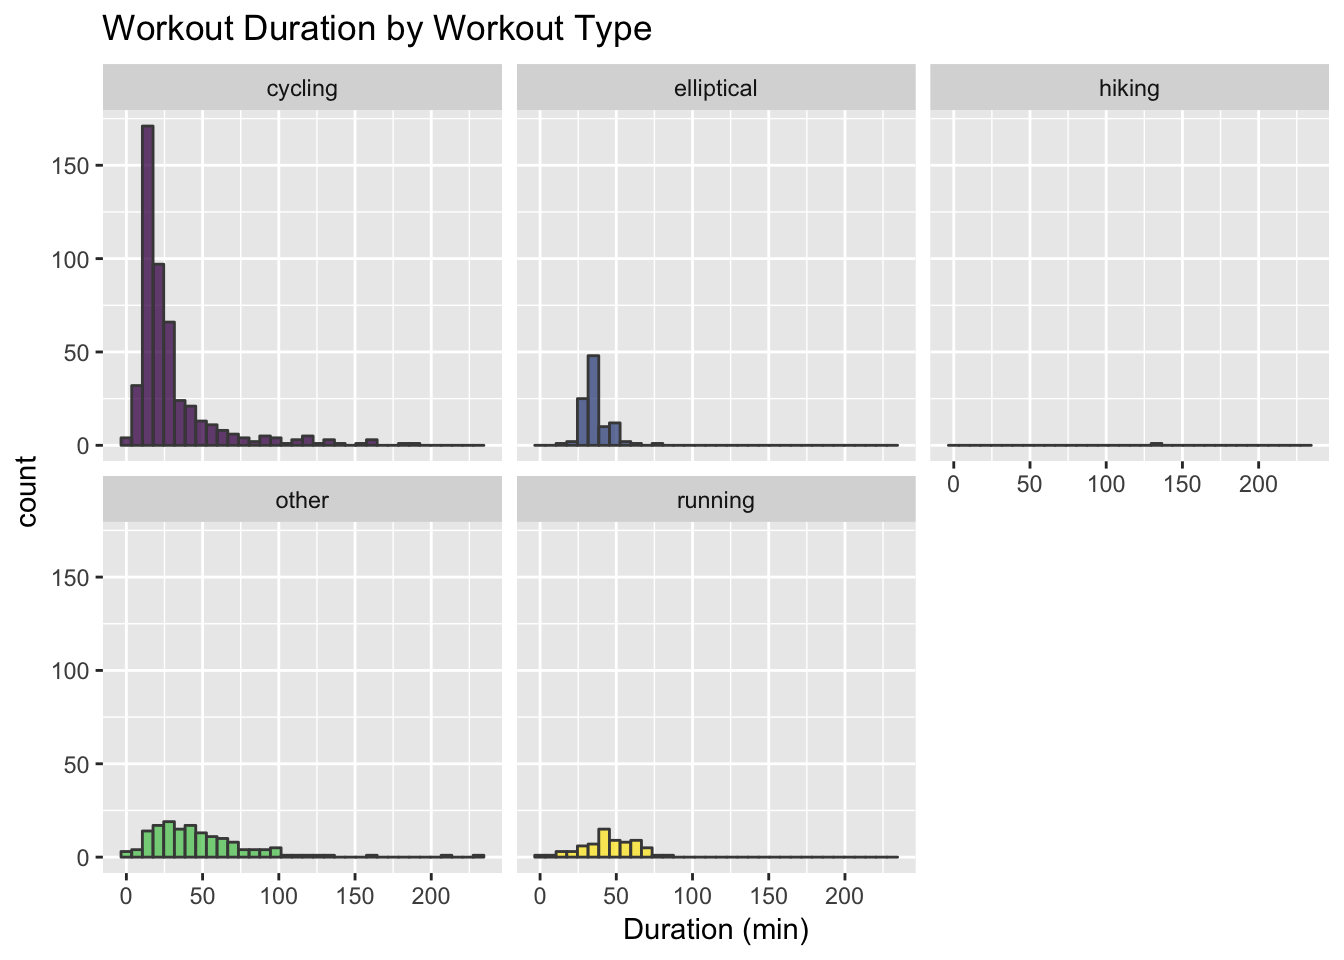
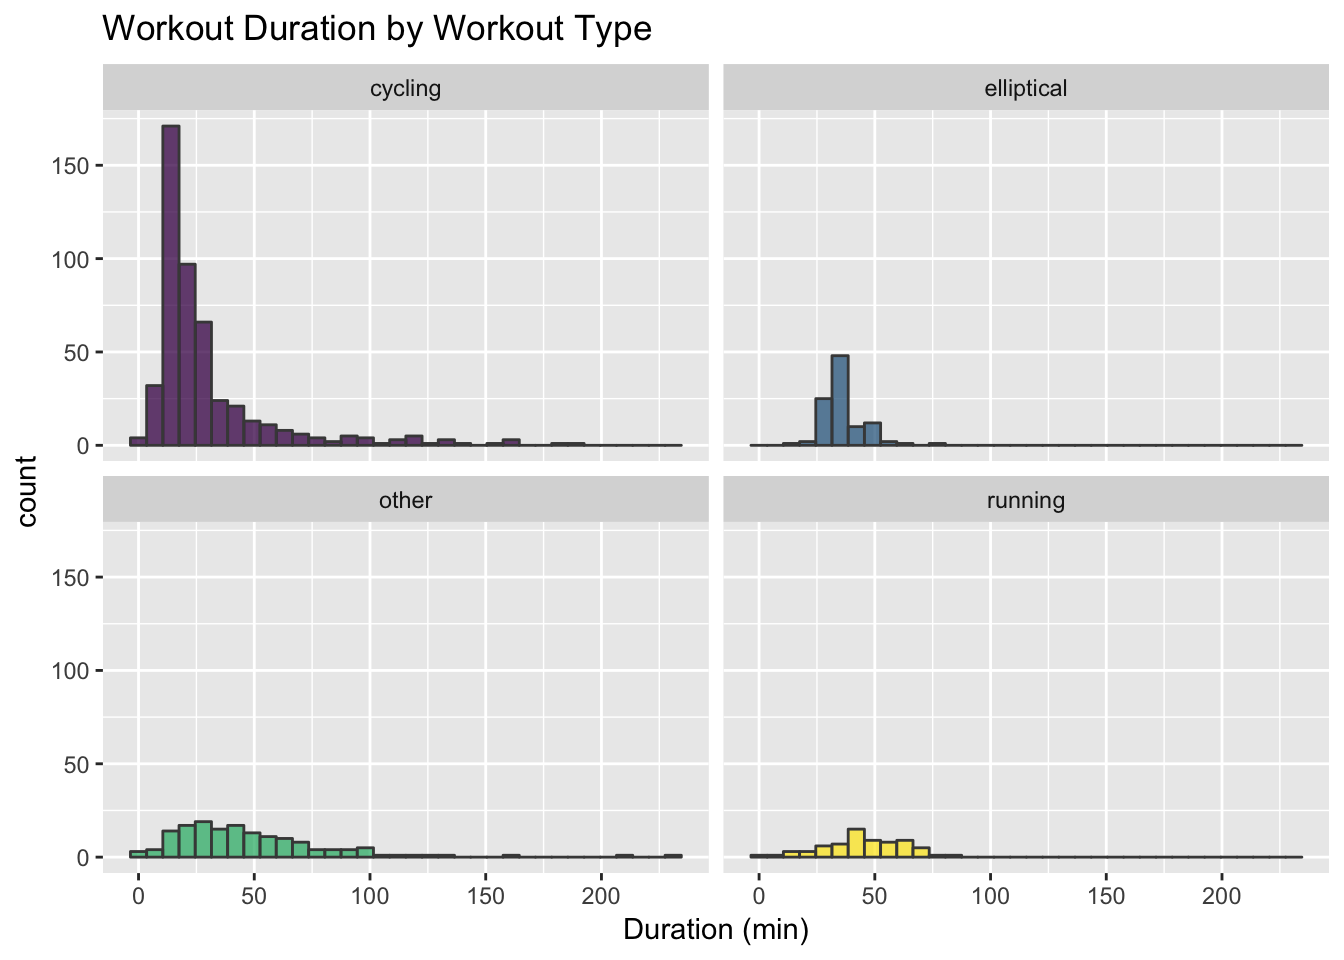
Fixes #3

diff --git a/preprocessing.md b/preprocessing.md
@@ -257,8 +257,8 @@ ggplot(df, aes(x=sourceName.x,y=totalDistance)) +
 
 ``` r
 # workout duration distribution by workout type
-# rowing, swimming, walking are too small to consider
-sport_df <- subset.data.frame(df, ! workoutType %in% c("swimming", "rowing", "walking"))
+# rowing, swimming, walking, and hiking are too small to consider
+sport_df <- subset.data.frame(df, ! workoutType %in% c("swimming", "rowing", "walking", "hiking"))
 
 ggplot(sport_df, aes(x=duration*60, y=..count..)) + 
   geom_histogram(aes(fill=workoutType), color='gray28', binwidth = 7, alpha=.75, show.legend = F) +

diff --git a/readme.md b/readme.md
@@ -18,6 +18,4 @@ Use `make` for the following steps:
 
 Preprocessing data visualization and notes can be seen [here](preprocessing.md)
 
-Machine Learning: 
-
 - Use random_tree.r to build random trees and random forests using classification on the fit_data.csv file.
